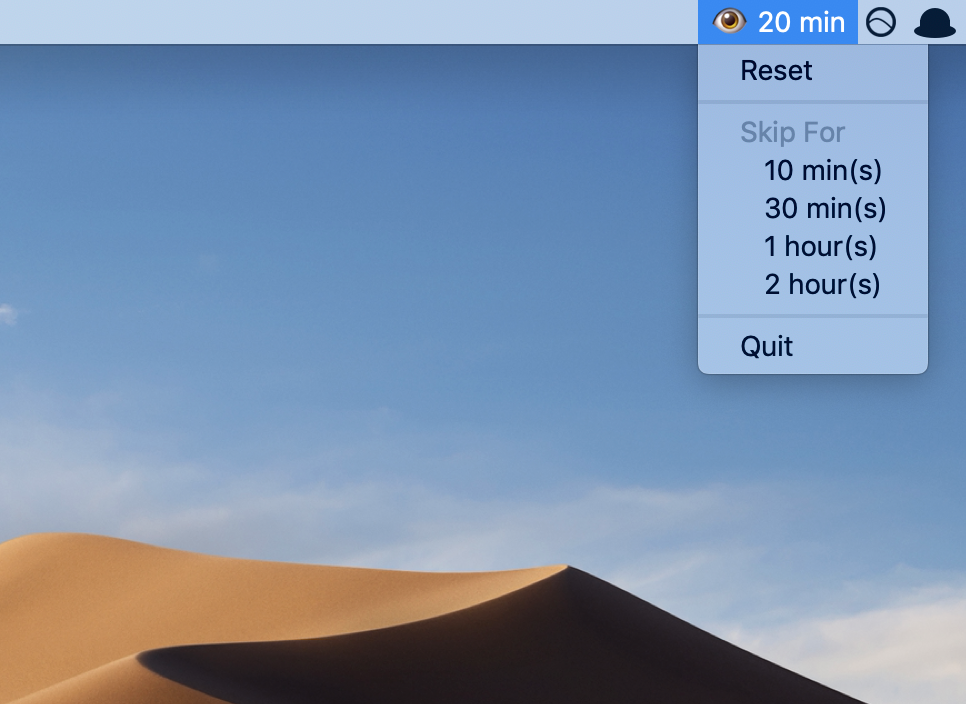
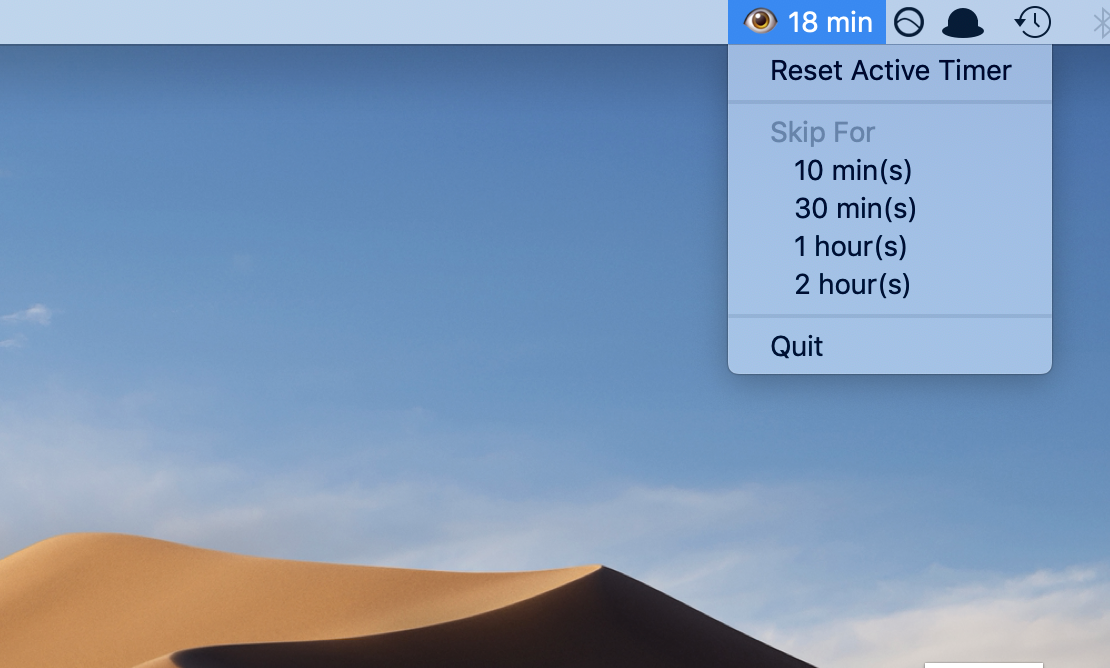
'Reset' might be ambiguous with skip

diff --git a/LookAway/AppDelegate.swift b/LookAway/AppDelegate.swift
@@ -28,7 +28,7 @@ class AppDelegate: NSObject, NSApplicationDelegate {
             
             let resetItem: NSMenuItem = {
                 let item = NSMenuItem(
-                    title: "Reset",
+                    title: "Reset Active Timer",
                     action: #selector(resetTimer),
                     keyEquivalent: ""
                 )
